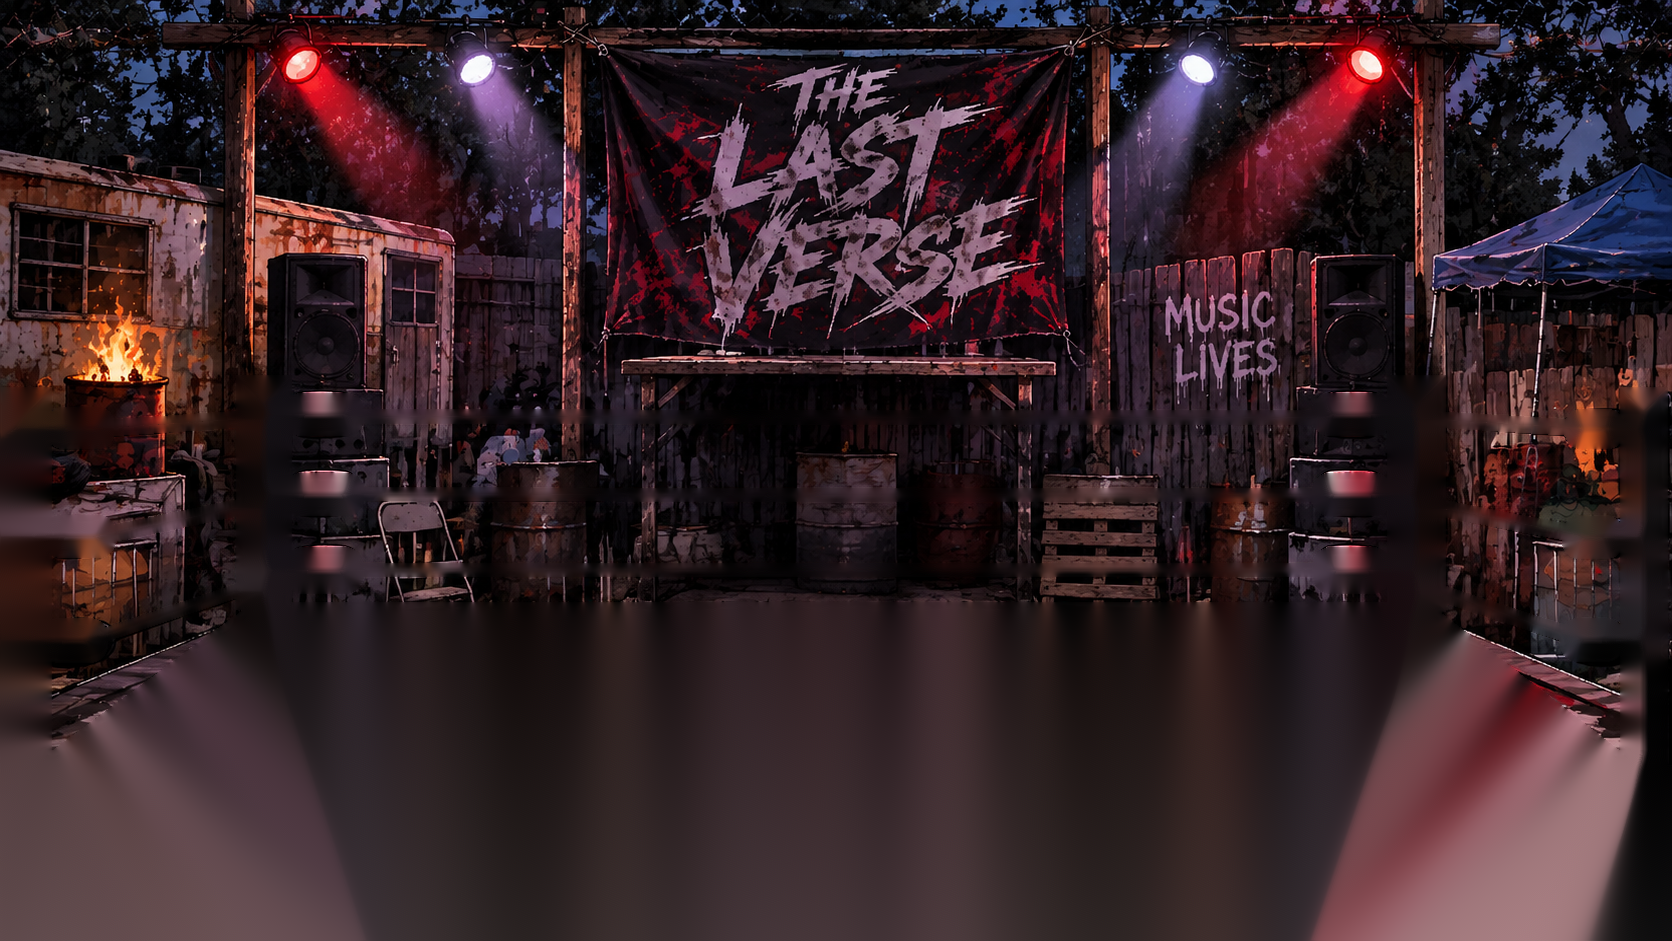
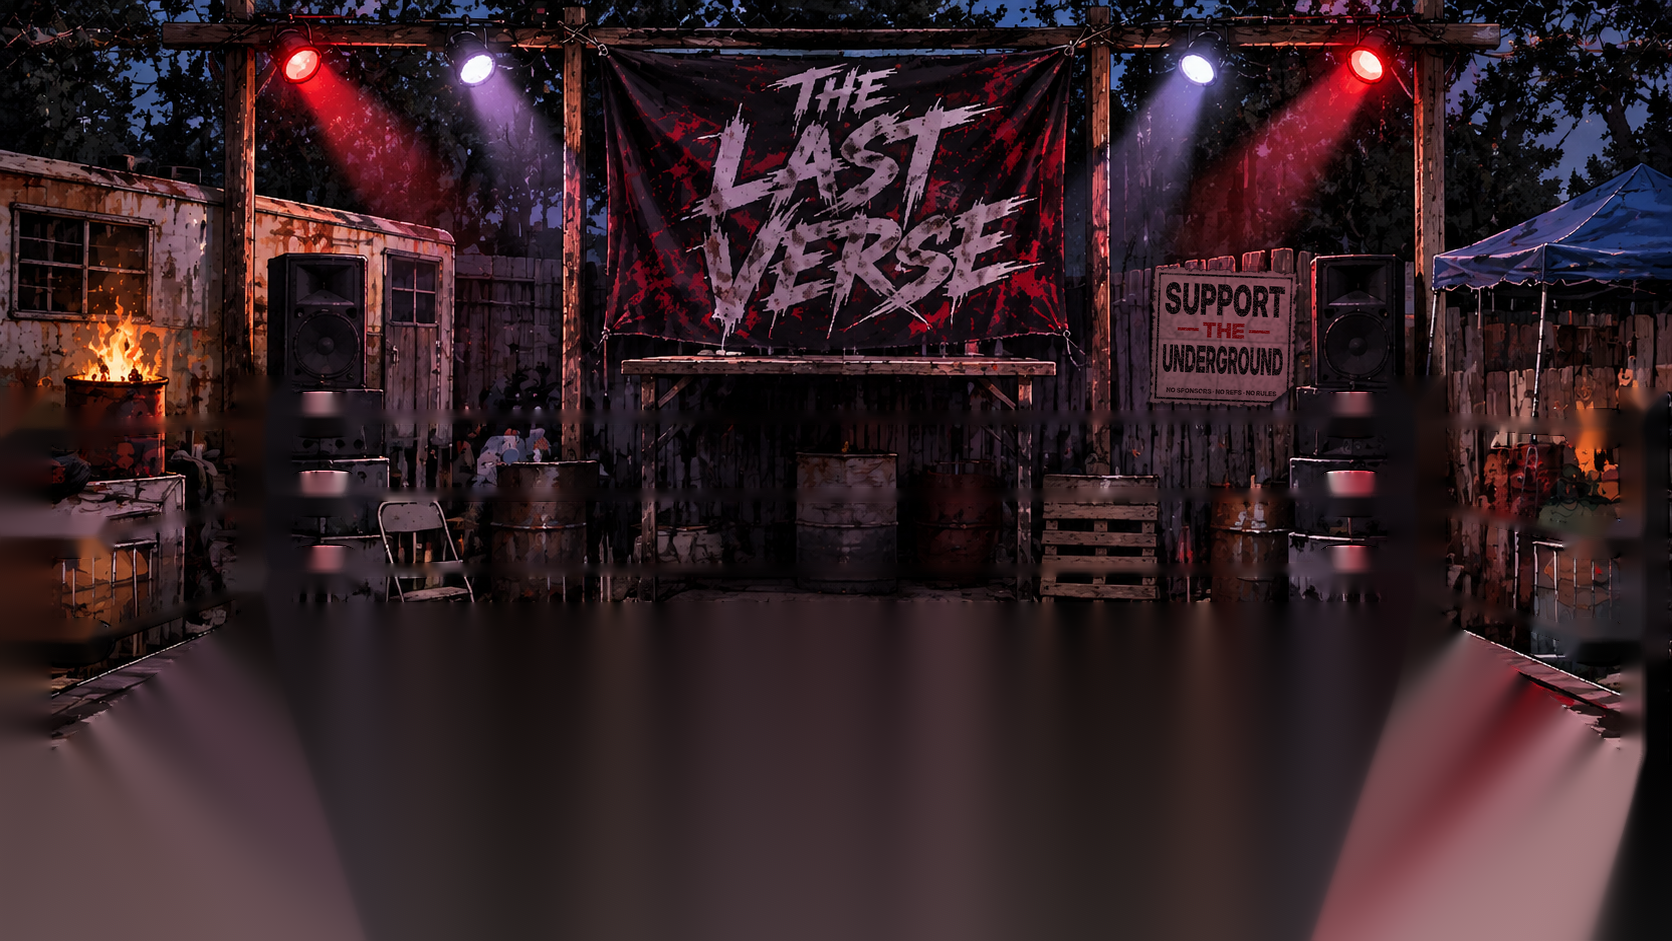
Backyard Ring: underground poster and a burning barrel
A weathered "SUPPORT THE UNDERGROUND" poster is painted over the MUSIC
LIVES graffiti, lit like the fence around it. The burn barrel now
really burns: the painted flames lick and sway, new tongues of fire
roll off the rim, embers drift up, the air above it shimmers, and its
light flickers on the trailer (and on the fighters when the game's
lighting pass is on).

Claude-Session: https://claude.ai/code/session_01HLCEad6bC3MWqAPfmZcphm

Changed region(s): [[0.6842, 0.2774, 0.7775, 0.4315]]

diff --git a/index.html b/index.html
@@ -1545,7 +1545,7 @@ const STAGES=[
  /* ---- New Update stages ---- */
  { id:'nu_ring',name:'The Backyard Ring',img:'nu_ring',ww:1204,wall:[193,1014],zoom:1.12,full:{scale:1204/1672,feet:688/941,p:1,rigid:true,front:'nu_ring_front'},indoor:false,dry:true,wet:false,ambient:[140,130,150],grade:'#5a3a5a',rim:'rgba(255,200,150,.36)',farTone:'none',shadowL:[{x:1500,y:-260,a:.32}],crowd:{groups:[],front:0},
    setup(){return{props:[],pend:[],puddles:[],throws:[]}},
-   build(g){},fg(g){},lights(){},
+   build(g){},fg(g){},lights(e,t){const fl=.75+.15*Math.sin(t*.23)+.1*Math.sin(t*.61+1);addLight(88,220,300,[255,140,60],.5*fl)},
  },
  { id:'nu_bigtop',name:'The Big Top',img:'nu_bigtop',full:{scale:0.9107,feet:640/784,p:.15,floor:500,bands:[[0,500,.16]],pNear:1.06},indoor:true,dry:true,wet:false,ambient:[130,100,70],grade:'#a0702a',rim:'rgba(255,190,110,.4)',farTone:'none',shadowL:[{x:1000,y:-260,a:.32}],crowd:{groups:[],front:0},
    setup(){return{props:[],pend:[],puddles:[],throws:[]}},
@@ -2363,6 +2363,9 @@ function aliveDraw(list,g,rc,t){for(const e of list){const f=ALIVE_FX[e[0]];if(f
 /* glow sprites for the studio gear, one small canvas per colour, made once */
 const GEAR_SPR=(()=>{const m=new Map();return()=>rgb=>{let c=m.get(rgb);if(!c){c=document.createElement('canvas');c.width=c.height=48;const g=c.getContext('2d'),gr=g.createRadialGradient(24,24,0,24,24,24);
   gr.addColorStop(0,'rgba(255,255,255,1)');gr.addColorStop(.18,`rgba(${rgb},1)`);gr.addColorStop(.5,`rgba(${rgb},.35)`);gr.addColorStop(1,`rgba(${rgb},0)`);g.fillStyle=gr;g.fillRect(0,0,48,48);m.set(rgb,c)}return c}})();
+/* soft round glow sprites for fire, one per colour (no white-hot centre) */
+const FIRE_SPR=(()=>{const m=new Map();return rgb=>{let c=m.get(rgb);if(!c){c=document.createElement('canvas');c.width=c.height=48;const g=c.getContext('2d'),gr=g.createRadialGradient(24,24,0,24,24,24);
+  gr.addColorStop(0,`rgba(${rgb},1)`);gr.addColorStop(.45,`rgba(${rgb},.45)`);gr.addColorStop(1,`rgba(${rgb},0)`);g.fillStyle=gr;g.fillRect(0,0,48,48);m.set(rgb,c)}return c}})();
 const STUDIO_GEAR=[[268,394,1.2,"255,128,50","b",0],[267,396,1.3,"255,120,50","b",0],[257,397,1.3,"255,153,50","b",0],[254,399,1.2,"255,162,50","b",0],[266,400,1.2,"255,122,50","b",0],[254,405,1.2,"255,197,50","b",0],[86,422,1.2,"171,255,50","s",0],[122,424,1.2,"215,255,50","b",0],[114,424,1.2,"50,255,171","s",0],[97,432,1.6,"156,255,50","b",0],[115,432,1.4,"255,197,50","s",0],[122,432,1.7,"255,145,50","s",0],[126,432,1.6,"255,150,50","b",0],[71,433,2.6,"255,141,50","s",0],[86,433,1.2,"173,255,50","b",0],[89,432,1.2,"174,255,50","s",0],[93,432,1.2,"124,255,50","b",0],[102,433,1.5,"174,255,50","b",0],[108,433,1.3,"255,249,50","s",0],[112,432,1.2,"255,190,50","s",0],[118,433,1.4,"255,183,50","b",0],[121,442,1.2,"50,255,78","s",0],[794,442,1.2,"255,151,50","s",0],[98,443,1.2,"50,255,147","s",0],[104,443,1.2,"50,255,113","s",0],[108,443,1.2,"50,255,106","s",0],[114,443,1.2,"80,255,50","s",0],[282,446,2.8,"255,158,50","b",0],[291,445,2.3,"255,158,50","s",0],[299,446,2.6,"255,148,50","s",0],[311,446,2.5,"255,147,50","b",0],[319,446,2.5,"255,159,50","b",0],[327,446,2.7,"255,158,50","s",0],[335,446,2.5,"255,162,50","s",0],[352,446,1.2,"255,91,50","b",0],[93,448,1.3,"179,255,50","s",0],[105,447,1.2,"173,255,50","s",0],[107,447,1.2,"183,255,50","s",0],[788,449,1.2,"255,132,50","s",0],[794,448,1.2,"255,146,50","b",0],[1067,452,1.4,"255,142,50","b",0],[1070,452,1.2,"255,92,50","b",0],[1074,452,1.2,"255,91,50","s",0],[54,452,1.2,"90,255,120","mA",0.78],[1058,452,1.2,"255,140,50","s",0],[33,456,2.3,"90,255,120","mA",0.44],[292,456,2.5,"255,177,50","s",0],[300,456,2.4,"255,149,50","s",0],[310,455,1.9,"255,151,50","s",0],[317,456,2.0,"255,117,50","s",0],[324,455,2.3,"255,130,50","s",0],[747,454,1.3,"50,192,255","s",0],[752,454,1.2,"50,255,229","s",0],[755,454,1.2,"50,255,219","s",0],[760,454,1.3,"50,255,239","s",0],[780,454,1.2,"255,158,50","s",0],[1,457,1.9,"90,255,120","mA",0.0],[9,457,2.6,"90,255,120","mA",0.11],[17,456,2.2,"90,255,120","mA",0.22],[26,456,2.2,"90,255,120","mA",0.33],[41,456,2.3,"90,255,120","mA",0.56],[48,456,1.8,"90,255,120","mA",0.67],[283,456,1.6,"255,176,50","s",0],[1053,456,1.2,"255,160,50","s",0],[1062,457,2.1,"255,169,50","s",0],[1066,457,2.1,"255,164,50","b",0],[1071,457,2.5,"255,176,50","s",0],[780,457,1.2,"255,75,50","s",0],[82,460,1.2,"90,255,120","mA",0.89],[104,460,2.0,"90,255,120","mA",1.0],[396,462,1.2,"50,255,173","b",0],[1096,462,1.3,"255,99,50","s",0],[792,464,1.2,"255,209,50","b",0],[800,464,1.2,"255,222,50","s",0],[308,466,2.5,"255,142,50","s",0],[320,466,1.6,"255,100,50","s",0],[326,466,1.5,"255,91,50","s",0],[293,467,1.4,"255,132,50","s",0],[332,466,1.2,"255,97,50","s",0],[1098,468,1.2,"221,255,50","s",0],[170,470,1.7,"255,131,50","s",0],[178,470,1.2,"255,143,50","s",0],[1048,472,1.2,"255,215,50","s",0],[1056,472,1.2,"255,225,50","s",0],[1073,474,1.5,"255,115,50","s",0],[1210,472,3.2,"255,149,50","s",0],[1224,472,1.2,"255,96,50","b",0],[1078,474,1.7,"255,86,50","s",0],[1086,474,2.1,"255,103,50","s",0],[1093,474,1.9,"255,129,50","s",0],[1235,473,1.9,"255,137,50","s",0],[322,474,1.2,"255,50,76","s",0],[327,475,1.2,"255,50,50","s",0],[332,474,1.2,"255,67,50","s",0],[338,474,1.2,"255,89,50","b",0],[1224,481,3.5,"255,141,50","s",0],[337,478,1.2,"255,93,50","mB",0.79],[1232,480,2.5,"255,127,50","b",0],[330,478,1.2,"255,115,50","mB",0.57],[334,478,1.2,"255,97,50","mB",0.71],[322,479,1.3,"255,110,50","mB",0.43],[332,481,1.6,"255,151,50","mB",0.64],[340,480,1.2,"255,152,50","mB",0.86],[344,480,1.3,"255,149,50","mB",0.93],[349,481,1.3,"255,159,50","mB",1.0],[1054,480,1.2,"50,214,255","b",0],[1083,480,1.2,"255,84,50","b",0],[1091,481,1.9,"255,50,60","s",0],[316,482,1.2,"255,152,50","mB",0.29],[321,482,1.2,"255,150,50","mB",0.36],[325,481,1.3,"255,150,50","mB",0.5],[297,482,1.2,"255,148,50","mB",0.0],[302,483,1.2,"255,173,50","mB",0.07],[306,482,1.3,"255,149,50","mB",0.14],[311,482,1.2,"255,168,50","mB",0.21],[1216,484,1.2,"255,135,50","b",0],[1234,487,1.6,"255,122,50","s",0],[1247,489,1.3,"255,149,50","s",0],[1196,490,2.3,"255,146,50","s",0],[1203,491,1.6,"255,153,50","b",0],[1231,493,2.8,"255,129,50","s",0],[144,492,1.7,"255,140,50","s",0],[148,492,1.4,"255,139,50","s",0],[134,492,3.0,"255,129,50","s",0],[152,493,1.7,"255,142,50","s",0],[85,495,1.7,"255,124,50","s",0],[92,495,2.0,"255,120,50","s",0],[98,495,1.7,"255,120,50","s",0],[148,495,1.2,"255,141,50","s",0],[72,496,1.7,"255,141,50","s",0],[78,496,1.8,"255,131,50","b",0],[128,496,1.6,"255,145,50","b",0],[134,496,1.2,"255,157,50","s",0],[1076,496,1.6,"255,50,90","s",0],[58,497,1.8,"255,131,50","s",0],[66,497,1.8,"255,146,50","s",0],[178,496,1.2,"255,162,50","s",0],[1084,497,1.5,"255,50,81","b",0],[1090,497,1.2,"255,95,50","s",0],[1201,496,1.2,"255,139,50","s",0],[38,498,2.0,"255,131,50","s",0],[44,498,1.9,"255,106,50","s",0],[51,498,2.0,"255,111,50","s",0],[105,498,1.6,"255,131,50","s",0],[32,499,1.9,"255,114,50","s",0],[86,499,2.6,"255,144,50","s",0],[24,500,1.8,"255,154,50","b",0],[2,500,2.0,"255,124,50","s",0],[1195,500,2.1,"255,154,50","s",0],[1227,502,1.2,"255,105,50","s",0],[1238,502,1.4,"255,154,50","s",0],[38,502,1.3,"255,178,50","s",0],[1162,502,1.2,"255,184,50","s",0],[1168,503,1.3,"255,201,50","b",0],[1244,502,1.7,"255,145,50","s",0],[1206,504,1.3,"255,141,50","c",0.93],[1122,504,1.2,"255,214,50","c",0.19],[1182,512,1.2,"214,255,50","c",0.89],[1053,513,1.5,"255,94,50","b",0],[1151,513,1.3,"255,184,50","c",0.33],[1158,513,1.5,"255,142,50","c",0.44],[1214,512,1.2,"255,160,50","c",1.0],[1164,514,1.5,"255,140,50","c",0.56],[1171,515,1.7,"255,147,50","c",0.74],[1058,515,1.2,"255,121,50","b",0],[1045,517,1.2,"255,96,50","b",0],[1137,519,1.2,"255,135,50","c",0.22],[1143,519,1.3,"255,144,50","c",0.26],[1149,519,2.0,"255,151,50","c",0.3],[1155,520,2.2,"255,100,50","c",0.37],[1101,520,1.2,"255,127,50","c",0.04],[1162,521,2.0,"255,116,50","c",0.48],[1168,522,1.9,"255,122,50","c",0.63],[1173,522,1.5,"255,113,50","c",0.78],[1213,522,2.2,"255,114,50","c",0.96],[1100,522,1.2,"255,117,50","c",0.0],[1114,522,1.2,"255,153,50","c",0.15],[1104,523,1.3,"255,129,50","c",0.07],[1108,524,1.4,"255,139,50","c",0.11],[1179,523,1.2,"255,223,50","c",0.85],[1157,526,2.7,"255,126,50","c",0.41],[1176,530,3.1,"255,112,50","c",0.81],[1168,528,1.2,"255,111,50","c",0.67],[1166,530,1.2,"255,106,50","c",0.59],[1162,531,1.2,"255,111,50","c",0.52],[1169,531,1.2,"255,117,50","c",0.7],[356,310,1.6,"90,170,255","s",0],[1003,456,1.6,"90,170,255","s",0],[1238,452,1.6,"90,170,255","s",0]];
 const ALIVE={
   riverfront:[['ripple',{x0:0,x1:2320,y0:700,y1:850,amp:3,sp:.05,glints:34,rgb:'190,210,255'}],['lightning',{x0:0,x1:2320,y0:0,y1:520,every:300,thunder:1}],['smoke',{x:1800,y:880,n:8,spread:900,rise:120,size:140,a:.12,rate:.0015,wind:.4,rgb:'150,165,200'}]],
@@ -2530,6 +2533,29 @@ Object.assign(ALIVE_FX,{
       g.fillStyle=sh;g.beginPath();g.arc(0,0,r,0,Math.PI*2);g.fill();
       if(d<0){g.fillStyle=`rgba(0,0,0,${.25*-d})`;g.beginPath();g.arc(0,0,r*.5,0,Math.PI*2);g.fill()}
       g.restore()}},
+  // a burn barrel that is really burning: the painted flames lick and sway, fresh tongues of fire roll up off the rim, embers float away,
+  // the heat bends the air above it and the firelight flickers on everything around it. In the painting's pixels:
+  // x0..x1 the mouth of the barrel, y0 the tips of the painted flames, rim the barrel's lip, glow [x,y,r] the firelight
+  fire(g,rc,t,o){const im=rc.im,k=rc.k,E=envK(),sp=FIRE_SPR,rim=o.rim,y0=o.y0,fh=rim-y0,fl=.72+.16*Math.sin(t*.23)+.12*Math.sin(t*.61+1)+.1*(aH(Math.floor(t/3))-.5);
+    g.save();
+    // heat haze above the flames
+    for(let x=o.x0-6;x<o.x1+6;x+=2){const dy=Math.sin(t*.3+x*.23)*1.3+Math.sin(t*.17-x*.11)*.8;g.drawImage(im,x,o.hz,2,y0-o.hz,rc.x+x*k,rc.y+(o.hz+dy)*k,2*k+.5,(y0-o.hz)*k)}
+    // the painted flames: each band sways (more toward the tips) and the whole fire stretches up and settles back
+    const st=1+Math.max(0,.07*Math.sin(t*.13)+.04*Math.sin(t*.31+2)+.03*Math.sin(t*.53));
+    for(let y=y0-4;y<rim;y+=2){const u=(rim-y)/fh,dx=(Math.sin(t*.21+y*.15)*1.8+Math.sin(t*.37+y*.07)*1.1)*Math.pow(Math.max(0,u),1.2);
+      g.drawImage(im,o.x0,y,o.x1-o.x0,2,rc.x+(o.x0+dx)*k,rc.y+(rim-(rim-y)*st)*k,(o.x1-o.x0)*k,2*st*k+.6)}
+    g.globalCompositeOperation='lighter';
+    // firelight on the wall, the barrel and the ground around it
+    {const[gx,gy,gr]=o.glow,X=rc.x+gx*k,Y=rc.y+gy*k;g.globalAlpha=Math.min(1,.7*fl*(E.power||1));const s=gr*2.4*k;g.drawImage(sp('255,130,45'),X-s/2,Y-s/2,s,s);
+      g.globalAlpha=Math.min(1,.75*fl);const s2=gr*1.1*k;g.drawImage(sp('255,190,90'),X-s2/2,rc.y+(rim-6)*k-s2/2,s2,s2)}
+    // tongues of fire rolling up off the rim
+    for(let i=0;i<(o.n||26);i++){const T=34+aH(i)*30,ph=((t+aH(i+.5)*T)/T)%1,bx=o.x0+(o.x1-o.x0)*(.12+.76*aH(i*1.31)),
+      x=bx+Math.sin(t*.09+i*1.7)*5*ph,y=rim-3-ph*fh*(.55+aH(i+2)*.6),sz=(18+aH(i+3)*15)*(1-ph*.6)*k,a=Math.pow(1-ph,1.2)*.75*fl;
+      g.globalAlpha=Math.min(1,a);const c=sp(ph<.28?'255,225,150':ph<.6?'255,140,40':'210,55,15');g.drawImage(c,rc.x+x*k-sz/2,rc.y+y*k-sz*.6,sz,sz*1.25)}
+    // embers drifting up and away
+    for(let i=0;i<(o.embers||16);i++){const T=110+aH(i+7)*120,ph=((t+aH(i+9)*T)/T)%1,x=o.x0+(o.x1-o.x0)*aH(i*2.3)+Math.sin(t*.05+i*2)*10*ph+ph*18,y=rim-10-ph*(140+aH(i+4)*90),
+      a=(1-ph)*(.6+.4*Math.sin(t*.5+i*3));if(a<.05)continue;g.globalAlpha=Math.min(1,a);const s=(3.4+aH(i+5)*2.4)*k;g.drawImage(sp('255,180,70'),rc.x+x*k-s,rc.y+y*k-s,s*2,s*2)}
+    g.restore()},
   // bats crossing the moon
   moonbats(g,rc,t,o){const k=rc.k,per=o.every||420,c=Math.floor(t/per),f=t%per;if(f>220)return;g.save();g.fillStyle='rgba(8,8,12,.9)';
     for(let j=0;j<(o.n||5);j++){const u=(f-j*10)/200;if(u<0||u>1)continue;const x=o.x-o.r*1.6+u*o.r*3.2+(aH(c+j)-.5)*60,y=o.y+(aH(c+j*.3)-.5)*o.r*1.2+Math.sin(u*9+j)*10,s=(7+aH(j+c)*6)*k,w=Math.sin(t*.45+j*2);
@@ -2603,8 +2629,8 @@ Object.assign(ALIVE,{
     ['thump',{at:[[1100,470,180,140],[1530,470,180,140]],amt:.02,bpm:96}]],
   nu_ring:[
     ['neon',{at:[[300,63,46,34,'255,50,50'],[476,66,46,34,'205,185,255'],[1197,66,46,34,'205,185,255'],[1366,63,46,34,'255,50,50']],a:.32,spill:260,every:300,dead:.02,burst:.12}],
-    ['flame',{at:[[116,352,1.1]],size:34}],
-    ['smoke',{x:116,y:330,n:5,spread:30,rise:160,size:60,a:.10,rate:.003,wind:.3,rgb:'90,80,80'}]],
+    ['fire',{x0:80,x1:164,y0:290,rim:379,hz:200,glow:[118,345,150],n:30,embers:26}],
+    ['smoke',{x:118,y:300,n:6,spread:30,rise:200,size:55,a:.12,rate:.0035,wind:.35,rgb:'80,70,70'}]],
   nu_bigtop:[
     ['neon',{at:[[302,270,18,22,'255,170,70'],[430,290,16,20,'255,170,70'],[555,300,14,18,'255,170,70'],[690,282,14,18,'255,170,70'],[1010,192,16,20,'255,170,70'],[1100,232,16,20,'255,170,70'],[800,228,14,18,'255,170,70'],[160,250,14,18,'255,170,70']],a:.4,every:220,dead:.05,burst:.3}],
     ['neon',{at:[[720,220,180,200,'255,230,170']],a:.12,every:600,burst:.1,seed:9}],

diff --git a/art/ring-layers/poster.py b/art/ring-layers/poster.py
@@ -1,0 +1,82 @@
+"""Paint a weathered 'SUPPORT THE UNDERGROUND' poster onto the fence over the MUSIC LIVES graffiti."""
+import numpy as np,cv2
+from PIL import Image,ImageDraw,ImageFont,ImageFilter
+rng=np.random.default_rng(11)
+S=4                                   # work at 4x, then scale down into the painting
+PW,PH=146*S,138*S                     # poster size in painting px * S
+FONT='/usr/share/fonts/opentype/inter/InterDisplay-Black.otf'
+# ---- paper: aged off-white, blotchy, darker toward the edges
+yy,xx=np.mgrid[0:PH,0:PW].astype(np.float32)
+def blob(sig,amp):
+    n=rng.normal(0,1,(PH//8+2,PW//8+2)).astype(np.float32);n=cv2.resize(n,(PW,PH),interpolation=cv2.INTER_CUBIC);n=cv2.GaussianBlur(n,(0,0),sig);return n/np.abs(n).max()*amp
+paper=np.dstack([np.full((PH,PW),v,np.float32) for v in (226,214,188)])
+paper+=blob(10,18)[...,None]+blob(3,7)[...,None]
+edge=np.minimum.reduce([xx,yy,PW-1-xx,PH-1-yy]);paper*=(.78+.22*np.clip(edge/(28*S/4*3),0,1))[...,None]
+# water stain rings and grime
+for _ in range(3):
+    cx,cy,r=rng.uniform(.1,.9)*PW,rng.uniform(.3,.95)*PH,rng.uniform(.08,.2)*PW
+    d=np.hypot(xx-cx,yy-cy);ring=np.exp(-((d-r)/(2.2*S))**2)*.16+np.clip(1-d/r,0,1)*.05
+    paper*=(1-ring)[...,None]
+paper*=(1-np.clip(blob(2,1),0,1)*.22)[...,None]
+paper*=(1-np.clip(blob(6,1),0,1)*.18)[...,None]
+# a fold crease across the middle and one down: a light ridge beside a dark line
+for (a,b,c) in [(0.0,1.0,-PH*.52),(1.0,0.04,-PW*.5)]:
+    d=(a*xx+b*yy+c)/np.hypot(a,b);paper*=(1-.20*np.exp(-(d/(1.2*S))**2)+.07*np.exp(-((d-2.5*S)/(2*S))**2))[...,None]
+img=Image.fromarray(np.clip(paper,0,255).astype(np.uint8),'RGB')
+# ---- print: heavy black condensed type, red middle word, rough ink
+d=ImageDraw.Draw(img)
+def put(text,y,h,col,squeeze=.78,pad=12*S):
+    f=ImageFont.truetype(FONT,int(h*1.32));bb=f.getbbox(text);tw,th=bb[2]-bb[0],bb[3]-bb[1]
+    t=Image.new('L',(tw+8,th+8),0);ImageDraw.Draw(t).text((4-bb[0],4-bb[1]),text,font=f,fill=255)
+    tw2=min(int(t.width*squeeze),PW-2*pad);t=t.resize((tw2,h),Image.LANCZOS)
+    ink=Image.new('RGB',t.size,col);img.paste(ink,((PW-tw2)//2,y),t);return y+h
+# a black frame line, then the words
+d.rectangle([6*S,6*S,PW-6*S,PH-6*S],outline=(22,18,18),width=int(2.2*S))
+y=put('SUPPORT',int(14*S),int(34*S),(20,16,16))
+y=put('— THE —',y+int(5*S),int(17*S),(170,18,24),squeeze=.95)
+y=put('UNDERGROUND',y+int(6*S),int(30*S),(20,16,16),squeeze=.62)
+d.text((PW//2,PH-int(15*S)),'NO SPONSORS · NO REFS · NO RULES',font=ImageFont.truetype(FONT,int(6.4*S)),fill=(60,40,38),anchor='mm')
+# wear the ink: speckle holes where the print rubbed off, scuffs along the fold
+a=np.asarray(img).astype(np.float32);base=paper
+wear=(np.clip(blob(1.2,1),0,1)>.55)|(rng.random((PH,PW))<.018)
+wear=cv2.dilate(wear.astype(np.uint8),np.ones((3,3),np.uint8)).astype(bool)
+a[wear]=a[wear]*.35+base[wear]*.65
+# ---- shape: torn edges, a torn-off bottom-right corner, everything a little uneven
+al=np.ones((PH,PW),np.float32)
+tear=np.abs(blob(.8,1))*6*S+np.abs(blob(4,1))*4*S
+al[edge<tear]=0
+al[(xx+yy*1.15)>(PW+PH*1.15-30*S)+np.abs(blob(.7,1))*5*S]=0        # missing corner
+al=cv2.GaussianBlur(al,(0,0),.6*S)
+# ---- tape strips over the two top corners
+tape=np.zeros((PH,PW),np.float32)
+for cx,ang in [(PW*.12,-28),(PW*.88,28)]:
+    rect=np.zeros((PH,PW),np.uint8);c=((cx,10*S),(34*S,11*S),ang);pts=cv2.boxPoints(c).astype(np.int32);cv2.fillPoly(rect,[pts],1);tape=np.maximum(tape,rect)
+tape=cv2.GaussianBlur(tape,(0,0),.5*S)
+a=a*(1-tape[...,None]*.35)+np.array([200,196,170],np.float32)*tape[...,None]*.35
+al=np.maximum(al,tape*.9)
+# ---- the painting's ink outline around the paper, like everything else in the scene
+o=cv2.dilate((al>.5).astype(np.uint8),np.ones((5,5),np.uint8))-(al>.5).astype(np.uint8)
+a[o>0]*=.25;al=np.maximum(al,o.astype(np.float32)*.85)
+poster=np.dstack([np.clip(a,0,255),al*255]).astype(np.uint8)
+P=Image.fromarray(poster,'RGBA').rotate(-2.2,resample=Image.BICUBIC,expand=True)
+P=P.resize((P.width//S,P.height//S),Image.LANCZOS)
+P.save('/tmp/poster_flat.png');print(P.size)
+# ---- place it on the fence and light it like the fence around it
+src=np.asarray(Image.open('src_orig.png').convert('RGB')).astype(np.float32)
+X0,Y0=1148,266
+pa=np.asarray(P).astype(np.float32);h,w=pa.shape[:2];alpha=pa[...,3:]/255
+region=src[Y0:Y0+h,X0:X0+w]
+# light falling on this patch of fence: the scene is dim and purple-red, brighter toward the top (the rig lights) and the right (the speaker's red rim)
+gy=np.linspace(1,0,h)[:,None];gx=np.linspace(0,1,w)[None,:]
+light=np.dstack([.47+.14*gy+.06*gx,.33+.07*gy+0*gx,.42+.09*gy+.02*gx]).astype(np.float32)
+lit=pa[...,:3]*light
+# a soft drop shadow on the fence below-right of the paper
+sh=cv2.GaussianBlur(alpha[...,0],(0,0),2.2);sh=np.roll(np.roll(sh,3,0),3,1)[...,None]
+out=region*(1-.55*sh)
+ring=np.load('/tmp/ring_alpha.npy')[Y0:Y0+h,X0:X0+w][...,None]
+alpha=alpha*(1-np.clip(ring*1.5,0,1));sh=sh*(1-np.clip(ring*1.5,0,1))
+out=region*(1-.55*sh)
+out=out*(1-alpha)+lit*alpha
+res=src.copy();res[Y0:Y0+h,X0:X0+w]=out
+Image.fromarray(np.clip(res,0,255).astype(np.uint8)).save('src_poster.png')
+c=Image.fromarray(np.clip(res,0,255).astype(np.uint8)).crop((1100,230,1340,430));c.resize((c.width*3,c.height*3),Image.LANCZOS).save('/tmp/poster_view.png')
